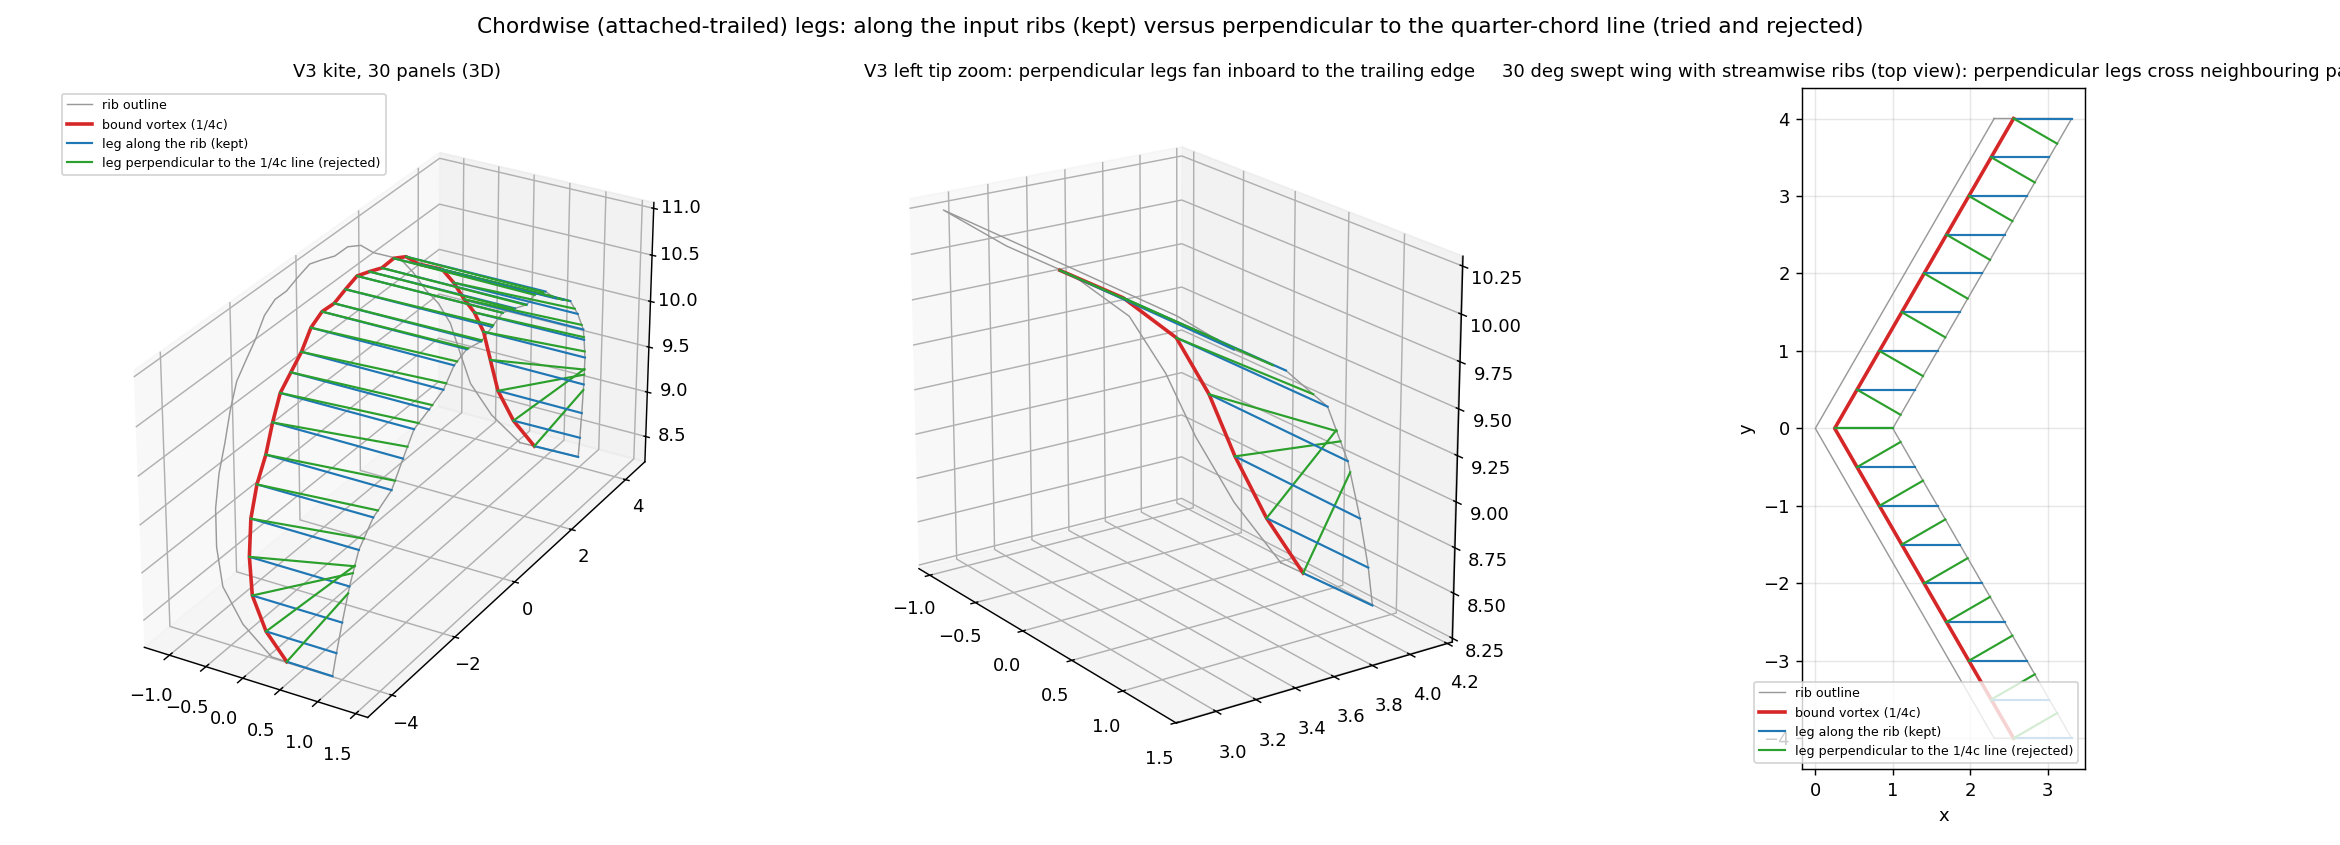
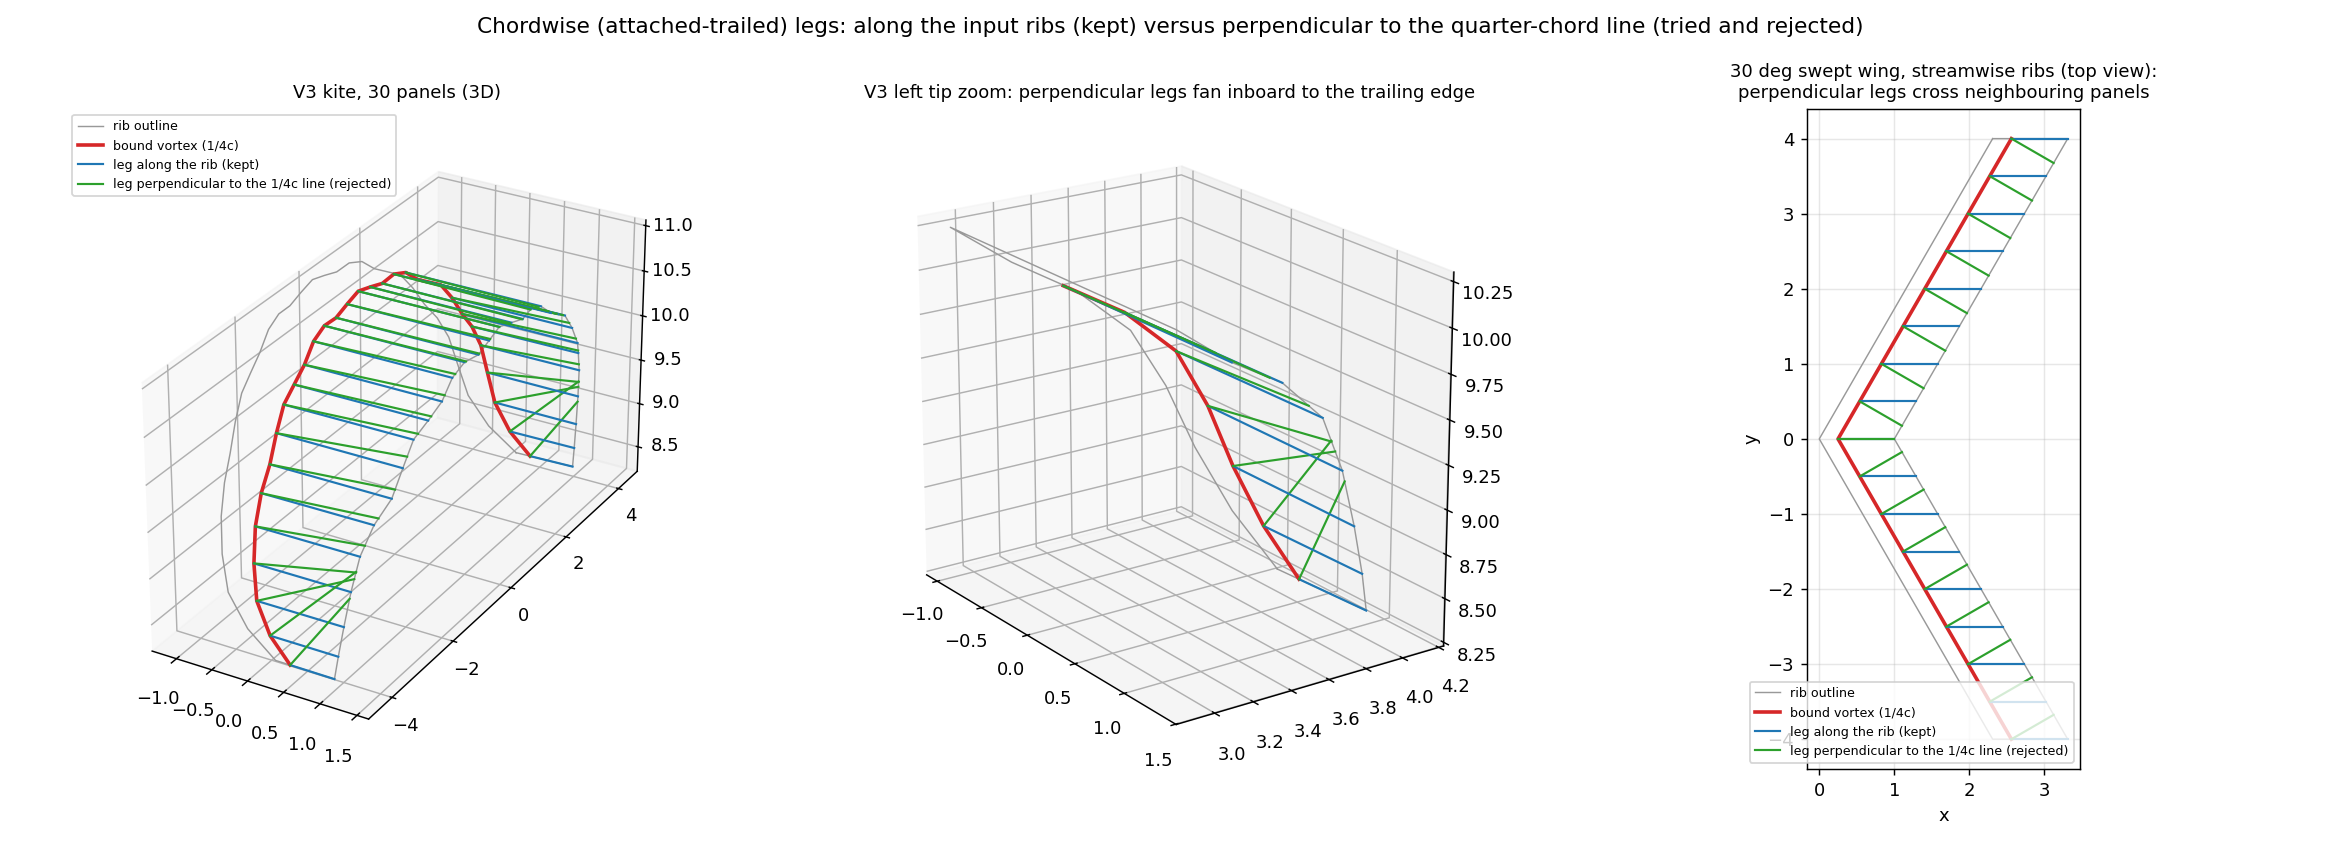
docs: fix a broken title literal in the figure script

diff --git a/docs/figures/make_pr_figures.py b/docs/figures/make_pr_figures.py
@@ -374,8 +374,7 @@ def fig_leg_variants():
     LE, TE, B, Lp = g3
     draw(ax, (LE[:8], TE[:8], B[:7], Lp[:7]), title="V3 left tip zoom: perpendicular legs fan inboard to the trailing edge"); ax.view_init(elev=20, azim=-35); ax.set_box_aspect((1.4, 1, 1.2))
     ax = fig.add_subplot(1, 3, 3)
-    draw(ax, systems(rect_wing(16, 8, 30.0)), proj=lambda X: X[:, :2], title="30 deg swept wing, streamwise ribs (top view):
-perpendicular legs cross neighbouring panels")
+    draw(ax, systems(rect_wing(16, 8, 30.0)), proj=lambda X: X[:, :2], title="30 deg swept wing, streamwise ribs (top view):\nperpendicular legs cross neighbouring panels")
     ax.set_aspect("equal"); ax.grid(alpha=0.3); ax.set_xlabel("x"); ax.set_ylabel("y"); ax.legend(fontsize=7, loc="lower right")
     fig.suptitle("Chordwise (attached-trailed) legs: along the input ribs (kept) versus perpendicular to the quarter-chord line (tried and rejected)")
     fig.tight_layout(); fig.savefig(OUT / "07_leg_variants_rejected.png", dpi=130); plt.close(fig)
